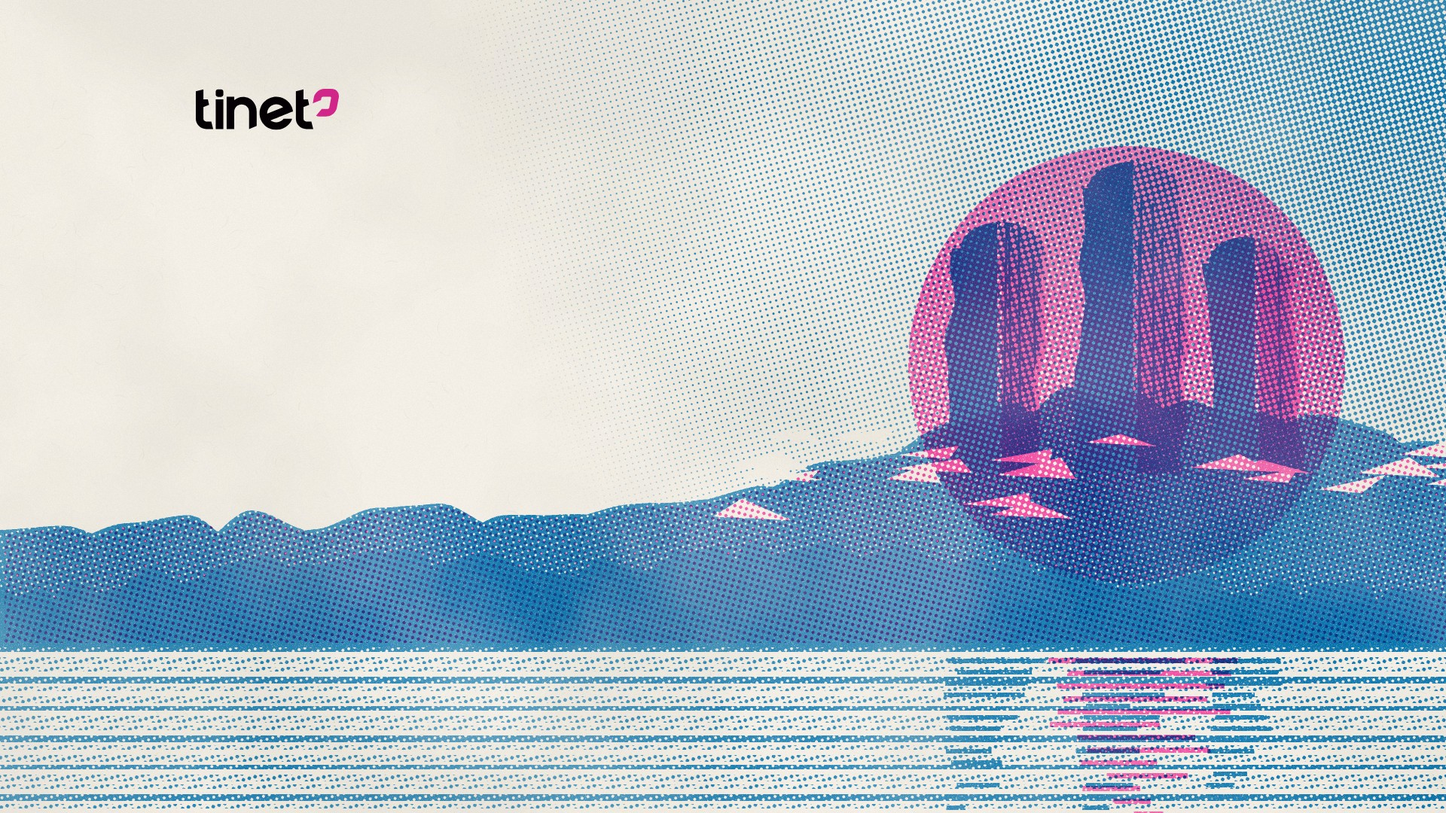
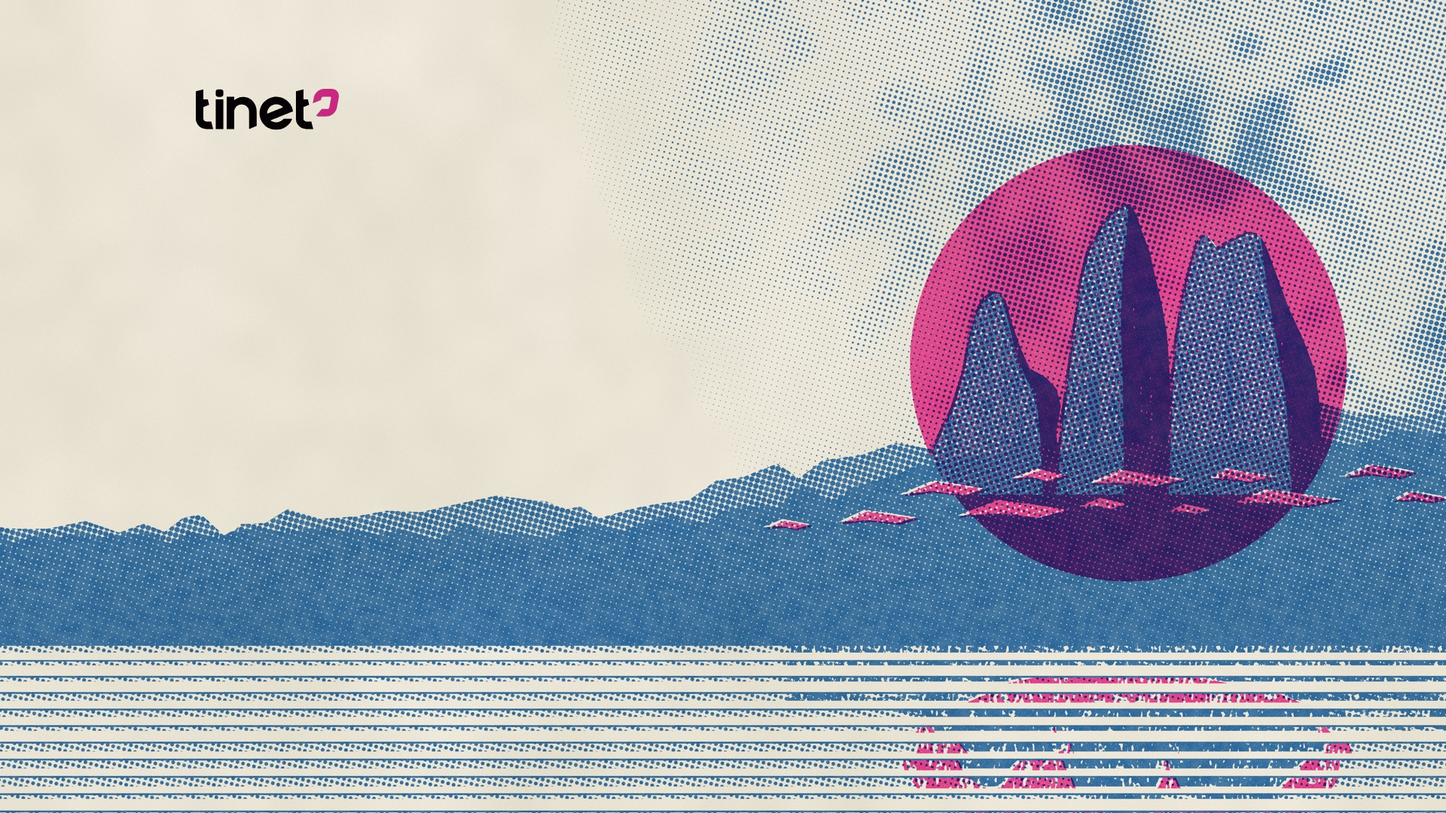
Redibujar Torres en dos tintas y agregar visor de imágenes
Las torres siguen ahora la silueta real del macizo (Sur, Central y Norte
con su cumbre doble). Al hacer clic en un fondo se abre ampliado, con
bordes redondeados y botones para recorrer la galería.

diff --git a/index.html b/index.html
@@ -55,6 +55,24 @@ summary::marker{font-size:.8em}
 .files i{font-style:normal}
 .files a:hover,summary:hover{opacity:.8}
 a:focus-visible,summary:focus-visible,button:focus-visible{outline:3px solid currentColor;outline-offset:3px}
+.ver{display:block;width:100%;cursor:zoom-in}
+.ver:hover .art{opacity:.92}
+
+/* Visor */
+.visor{border:0;padding:16px;margin:0;background:transparent;color:#faf8ed;width:100vw;height:100dvh;max-width:none;max-height:none;overflow:hidden}
+.visor[open]{display:grid;place-items:center}
+.visor::backdrop{background:#0f1c18e6}
+.visor figure{margin:0;display:grid;gap:16px;justify-items:center;max-width:100%}
+.visor img{display:block;width:auto;height:auto;max-width:min(100%,1440px);max-height:calc(100dvh - 170px);border-radius:20px;box-shadow:0 24px 80px #0009;background:#ffffff14}
+.visor figcaption{display:flex;flex-wrap:wrap;align-items:center;justify-content:center;gap:10px 22px;text-align:center}
+.visor h2{font-size:clamp(26px,2.6vw,40px)}
+.visor small{font-size:.86rem;opacity:.75;font-variant-numeric:tabular-nums}
+.pasos{display:flex;gap:10px}
+.visor button{border:1px solid currentColor;border-radius:99px;padding:8px 18px;font-weight:550;line-height:1.3}
+.visor button:hover{background:#faf8ed;color:#19362f}
+.visor .sig{background:#faf8ed;color:#19362f}
+.visor .sig:hover{opacity:.85}
+.visor .cerrar{position:absolute;top:16px;right:16px;width:42px;height:42px;padding:0}
 .vacio{padding-block:40px 120px;font-size:1.1rem}
 
 @media(max-width:980px){
@@ -83,6 +101,21 @@ a:focus-visible,summary:focus-visible,button:focus-visible{outline:3px solid cur
     <noscript><p class="vacio">La galería necesita JavaScript para mostrarse. Los archivos están en las carpetas Videollamadas y Escritorio del repositorio.</p></noscript>
   </div>
 </main>
+
+<dialog class="visor" id="visor" aria-labelledby="visor-titulo">
+  <button type="button" class="cerrar" id="visor-cerrar" aria-label="Cerrar">✕</button>
+  <figure>
+    <img id="visor-img" width="1440" height="810" alt="">
+    <figcaption>
+      <h2 id="visor-titulo"></h2>
+      <small id="visor-cuenta"></small>
+      <div class="pasos">
+        <button type="button" id="visor-ant">← Anterior</button>
+        <button type="button" class="sig" id="visor-sig">Siguiente →</button>
+      </div>
+    </figcaption>
+  </figure>
+</dialog>
 
 <script src="fondos.js"></script>
 <script>
@@ -192,7 +225,8 @@ a:focus-visible,summary:focus-visible,button:focus-visible{outline:3px solid cur
     }));
   }
 
-  function tarjeta(f, primera) {
+  function tarjeta(f, i) {
+    var primera = i < 3;
     var enlaces = DESCARGAS.map(function (d) {
       var rotulo = (d.campo && f[d.campo]) || d.rotulo;
       return el("a", {
@@ -209,7 +243,9 @@ a:focus-visible,summary:focus-visible,button:focus-visible{outline:3px solid cur
       });
     });
     return el("article", { class: "print" }, [
-      el("img", { class: "art", src: "Vistas/" + f.archivo + ".webp", width: "1440", height: "810", alt: f.alt || f.titulo, loading: primera ? "eager" : "lazy", decoding: "async" }),
+      el("button", { type: "button", class: "ver", "aria-label": "Ampliar " + f.titulo, on: { click: function () { abrir(i); } } }, [
+        el("img", { class: "art", src: "Vistas/" + f.archivo + ".webp", width: "1440", height: "810", alt: f.alt || f.titulo, loading: primera ? "eager" : "lazy", decoding: "async" })
+      ]),
       el("div", { class: "note" }, [
         el("span", { class: "brand", text: f.firma || f.marca }),
         el("h2", { text: f.titulo }),
@@ -223,7 +259,7 @@ a:focus-visible,summary:focus-visible,button:focus-visible{outline:3px solid cur
   function pintar() {
     pintarFiltros();
     var activos = FACETAS.filter(function (fa) { return filtros[fa.id]; }).map(function (fa) { return filtros[fa.id]; });
-    var lista = coinciden();
+    var lista = visibles = coinciden();
 
     var estado = [el("strong", { text: lista.length + (lista.length === 1 ? " fondo" : " fondos") + (activos.length ? " · " + activos.join(" · ") : "") })];
     if (activos.length) {
@@ -233,9 +269,31 @@ a:focus-visible,summary:focus-visible,button:focus-visible{outline:3px solid cur
     $estado.replaceChildren.apply($estado, estado);
 
     $galeria.replaceChildren(lista.length
-      ? el("div", { class: "prints" }, lista.map(function (f, i) { return tarjeta(f, i < 3); }))
+      ? el("div", { class: "prints" }, lista.map(function (f, i) { return tarjeta(f, i); }))
       : el("p", { class: "vacio", text: "No hay fondos con esa combinación de filtros." }));
   }
+
+  // Visor: amplía un fondo y permite recorrer los que están a la vista (respeta los filtros).
+  var visibles = [], pos = 0;
+  var $visor = document.getElementById("visor"), $vImg = document.getElementById("visor-img");
+  function mostrar(i) {
+    pos = (i + visibles.length) % visibles.length;
+    var f = visibles[pos];
+    $vImg.src = "Vistas/" + f.archivo + ".webp";
+    $vImg.alt = f.alt || f.titulo;
+    document.getElementById("visor-titulo").textContent = f.titulo;
+    document.getElementById("visor-cuenta").textContent = (pos + 1) + " de " + visibles.length;
+    new Image().src = "Vistas/" + visibles[(pos + 1) % visibles.length].archivo + ".webp";
+  }
+  function abrir(i) { mostrar(i); $visor.showModal(); document.getElementById("visor-sig").focus(); }
+  document.getElementById("visor-sig").addEventListener("click", function () { mostrar(pos + 1); });
+  document.getElementById("visor-ant").addEventListener("click", function () { mostrar(pos - 1); });
+  document.getElementById("visor-cerrar").addEventListener("click", function () { $visor.close(); });
+  $visor.addEventListener("click", function (e) { if (e.target === $visor) $visor.close(); });
+  $visor.addEventListener("keydown", function (e) {
+    if (e.key === "ArrowRight") mostrar(pos + 1);
+    else if (e.key === "ArrowLeft") mostrar(pos - 1);
+  });
 
   window.addEventListener("hashchange", function () { leerHash(); pintar(); });
   leerHash();
